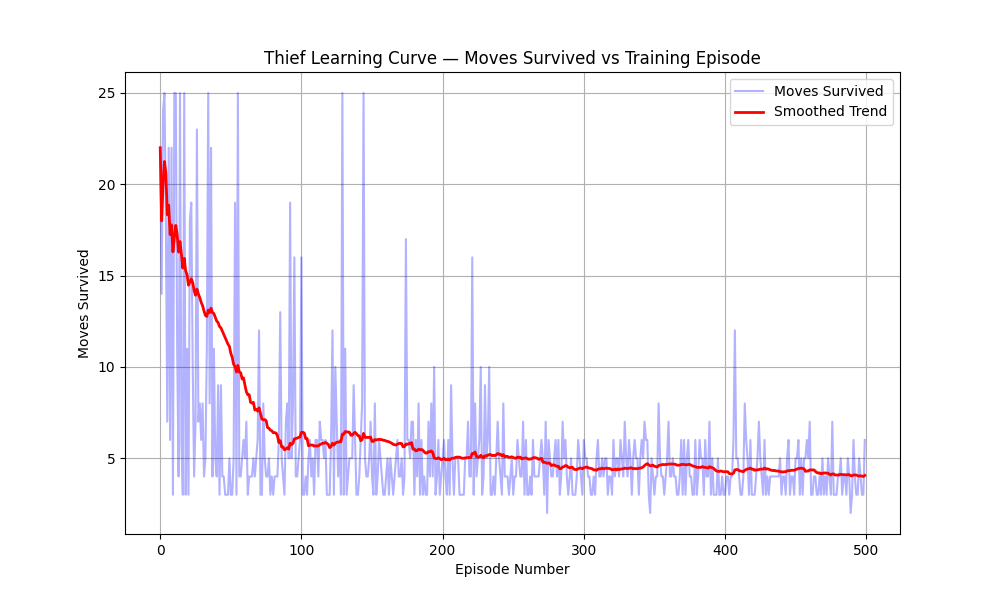
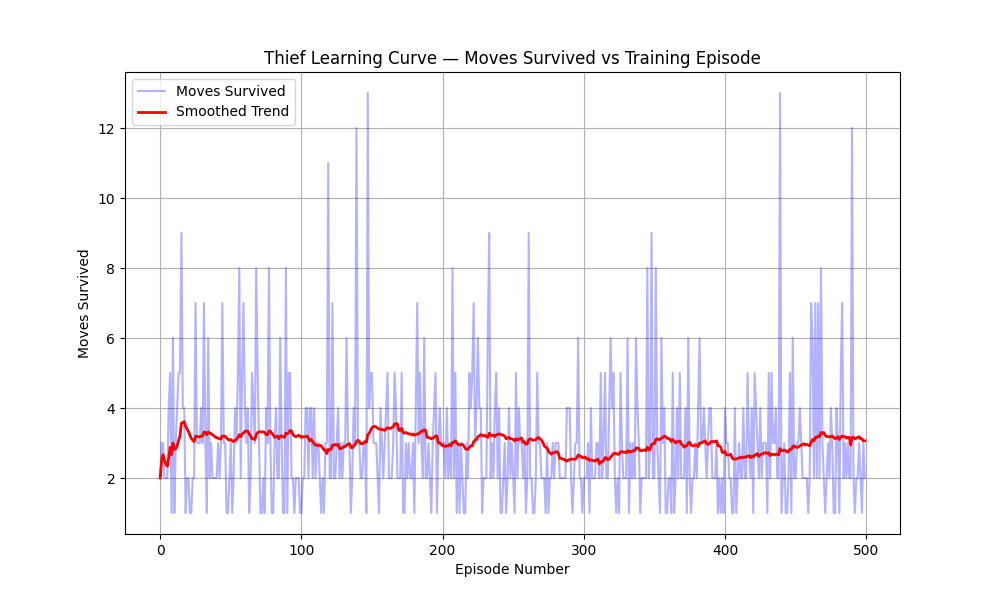
feat: epsilon-random training cop, updated learning curve

diff --git a/src/cop_thief/services/training_engine.py b/src/cop_thief/services/training_engine.py
@@ -1,5 +1,6 @@
 import json
 import os
+import random
 
 from cop_thief.services.game_state import GameState
 from cop_thief.services.manhattan import ManhattanHeuristic
@@ -43,9 +44,26 @@ class TrainingEngine:
                 cop_pos = (game.cop.row, game.cop.col)
                 thief_pos = (game.thief.row, game.thief.col)
                 grid_size = [game.grid.rows, game.grid.cols]
-                state_int = self.q_table.encode_state(cop_pos, thief_pos, grid_size)
 
-                valid_actions = validator.get_valid_moves(game.cop)
+                valid_cop_actions = validator.get_valid_moves(game.cop)
+                if valid_cop_actions:
+                    if random.random() < 0.5:
+                        cop_action = heuristic.get_best_cop_move(game.cop, game.thief, validator)
+                    else:
+                        cop_action = random.choice(valid_cop_actions)
+                    if cop_action:
+                        dr, dc = validator._get_delta(cop_action)
+                        game.cop.move(game.cop.row + dr, game.cop.col + dc)
+
+                new_cop_pos = (game.cop.row, game.cop.col)
+                
+                if game.cop.row == game.thief.row and game.cop.col == game.thief.col:
+                    moves += 1
+                    break
+
+                state_int = self.q_table.encode_state(new_cop_pos, thief_pos, grid_size)
+
+                valid_actions = validator.get_valid_moves(game.thief)
                 if not valid_actions:
                     break
 
@@ -54,11 +72,11 @@ class TrainingEngine:
                 )
 
                 dr, dc = validator._get_delta(action)
-                game.cop.move(game.cop.row + dr, game.cop.col + dc)
+                game.thief.move(game.thief.row + dr, game.thief.col + dc)
 
-                new_cop_pos = (game.cop.row, game.cop.col)
+                new_thief_pos = (game.thief.row, game.thief.col)
                 new_state_int = self.q_table.encode_state(
-                    new_cop_pos, thief_pos, grid_size
+                    new_cop_pos, new_thief_pos, grid_size
                 )
 
                 is_caught = game.cop.row == game.thief.row and game.cop.col == game.thief.col
@@ -66,8 +84,8 @@ class TrainingEngine:
                 if is_caught:
                     reward = 10.0
                 else:
-                    dist_before = heuristic.get_distance(cop_pos, thief_pos)
-                    dist_after = heuristic.get_distance(new_cop_pos, thief_pos)
+                    dist_before = heuristic.get_distance(new_cop_pos, thief_pos)
+                    dist_after = heuristic.get_distance(new_cop_pos, new_thief_pos)
                     if dist_after < dist_before:
                         reward = 1.0
                     elif dist_after > dist_before: